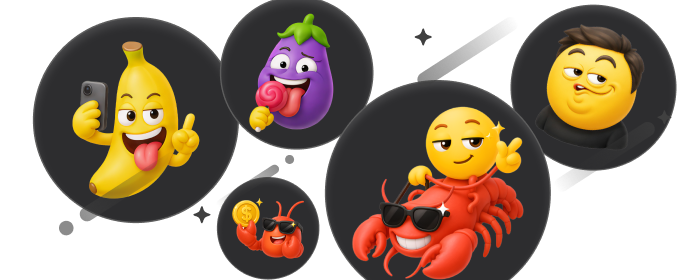
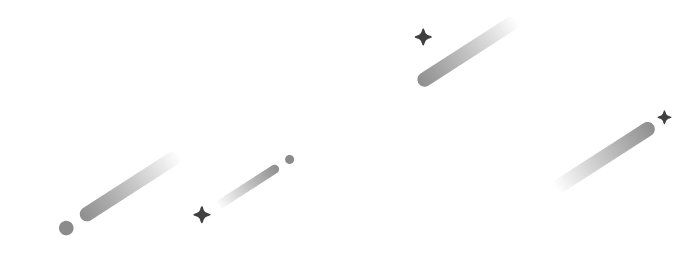
更新emoji热梗展示区：替换memes素材、添加bubble效果、调整尺寸和交互

diff --git a/src/components/EmojiPage.css b/src/components/EmojiPage.css
@@ -133,67 +133,123 @@
   border-bottom-right-radius: 16px;
 }
 
-.banner-emoji-placeholder {
+.banner-emoji {
   position: absolute;
-  border: 2px dashed rgba(255, 255, 255, 0.5);
-  border-radius: 8px;
-  background: rgba(201, 255, 76, 0.1);
+  object-fit: contain;
+  transition: transform 0.3s ease;
+  z-index: 1;
 }
 
-.banner-emoji-placeholder.size-160 {
+.emoji-bubble-container {
+  position: absolute;
+  display: flex;
+  align-items: center;
+  justify-content: center;
+  transition: transform 0.3s ease;
+}
+
+.emoji-bubble-container:hover {
+  transform: scale(1.1) rotate(5deg);
+}
+
+.banner-bubble {
+  position: absolute;
+  object-fit: contain;
+  z-index: 0;
+  top: 50%;
+  left: 50%;
+  transform: translate(-50%, -50%);
+}
+
+.banner-emoji {
+  position: absolute;
+  object-fit: contain;
+  transition: transform 0.3s ease;
+  z-index: 1;
+  top: 50%;
+  left: 50%;
+  transform: translate(-50%, -50%);
+}
+
+.banner-bubble.size-208 {
+  width: 208px;
+  height: 208px;
+}
+
+.banner-bubble.size-156 {
+  width: 156px;
+  height: 156px;
+}
+
+.banner-bubble.size-104 {
+  width: 104px;
+  height: 104px;
+}
+
+.banner-bubble.size-221 {
+  width: 221px;
+  height: 221px;
+}
+
+.emoji-1-container {
+  top: auto;
+  bottom: 80px;
+  right: 470px;
   width: 160px;
   height: 160px;
 }
 
-.banner-emoji-placeholder.size-120 {
+.emoji-2-container {
+  top: 10px;
+  right: 330px;
   width: 120px;
   height: 120px;
 }
 
-.banner-emoji-placeholder.size-80 {
+.emoji-3-container {
+  top: 190px;
+  right: 375px;
   width: 80px;
   height: 80px;
 }
 
-.banner-emoji-placeholder.size-170 {
+.emoji-4-container {
+  bottom: 5px;
+  right: 165px;
   width: 170px;
   height: 170px;
 }
 
-.banner-emoji-placeholder.emoji-1 {
-  top: auto;
-  bottom: 80px;
-  right: 470px;
-  background: rgba(254, 44, 48, 0.3);
-  border-color: #FE2C30;
-}
-
-.banner-emoji-placeholder.emoji-2 {
-  top: 10px;
-  right: 320px;
-  background: rgba(76, 175, 80, 0.3);
-  border-color: #4CAF50;
-}
-
-.banner-emoji-placeholder.emoji-3 {
-  top: 190px;
-  right: 375px;
-  background: rgba(33, 150, 243, 0.3);
-  border-color: #2196F3;
-}
-
-.banner-emoji-placeholder.emoji-4 {
-  bottom: 5px;
-  right: 145px;
-  background: rgba(156, 39, 176, 0.3);
-  border-color: #9C27B0;
-}
-
-.banner-emoji-placeholder.emoji-5 {
+.emoji-5-container {
   bottom: 130px;
   right: 30px;
-  background: rgba(255, 193, 7, 0.3);
-  border-color: #FFC107;
+  width: 120px;
+  height: 120px;
+}
+
+.banner-emoji.size-160 {
+  width: 160px;
+  height: 160px;
+}
+
+.banner-emoji.size-150 {
+  width: 160px;
+  height: 160px;
+}
+
+.banner-emoji.size-120 {
+  width: 120px;
+  height: 120px;
+}
+
+.banner-emoji.size-80 {
+  width: 80px;
+  height: 80px;
+}
+
+.banner-emoji.size-170 {
+  width: 170px;
+  height: 170px;
 }
 
 .emoji-banner {
@@ -234,7 +290,7 @@
   -webkit-background-clip: text;
   -webkit-text-fill-color: transparent;
   background-clip: text;
-  transform: translateX(4px);
+  transform: translateX(12px);
 }
 
 .meme-flame {

diff --git a/src/components/EmojiPage.jsx b/src/components/EmojiPage.jsx
@@ -212,11 +212,26 @@ function EmojiPage({ onTabChange, collapsed, onToggleCollapse }) {
           </div>
           <div className="trending-right">
             <img src="/aicover/assets/emoji_banner.png" alt="Emoji Banner" className="emoji-banner" />
-            <div className="banner-emoji-placeholder emoji-1 size-160"></div>
-            <div className="banner-emoji-placeholder emoji-2 size-120"></div>
-            <div className="banner-emoji-placeholder emoji-3 size-80"></div>
-            <div className="banner-emoji-placeholder emoji-4 size-170"></div>
-            <div className="banner-emoji-placeholder emoji-5 size-120"></div>
+            <div className="emoji-bubble-container emoji-1-container">
+              <img src="/aicover/assets/bubble.png" alt="Bubble 1" className="banner-bubble size-208" />
+              <img src="/aicover/assets/emoji_design/memes/emoji_meme_1.png" alt="Emoji 1" className="banner-emoji size-160" />
+            </div>
+            <div className="emoji-bubble-container emoji-2-container">
+              <img src="/aicover/assets/bubble.png" alt="Bubble 2" className="banner-bubble size-156" />
+              <img src="/aicover/assets/emoji_design/memes/emoji_meme_2.png" alt="Emoji 2" className="banner-emoji size-120" />
+            </div>
+            <div className="emoji-bubble-container emoji-3-container">
+              <img src="/aicover/assets/bubble.png" alt="Bubble 3" className="banner-bubble size-104" />
+              <img src="/aicover/assets/emoji_design/memes/emoji_meme_3.png" alt="Emoji 3" className="banner-emoji size-80" />
+            </div>
+            <div className="emoji-bubble-container emoji-4-container">
+              <img src="/aicover/assets/bubble.png" alt="Bubble 4" className="banner-bubble size-221" />
+              <img src="/aicover/assets/emoji_design/memes/emoji_meme_4.png" alt="Emoji 4" className="banner-emoji size-170" />
+            </div>
+            <div className="emoji-bubble-container emoji-5-container">
+              <img src="/aicover/assets/bubble.png" alt="Bubble 5" className="banner-bubble size-156" />
+              <img src="/aicover/assets/emoji_design/memes/emoji_meme_5.png" alt="Emoji 5" className="banner-emoji size-120" />
+            </div>
           </div>
         </div>
 